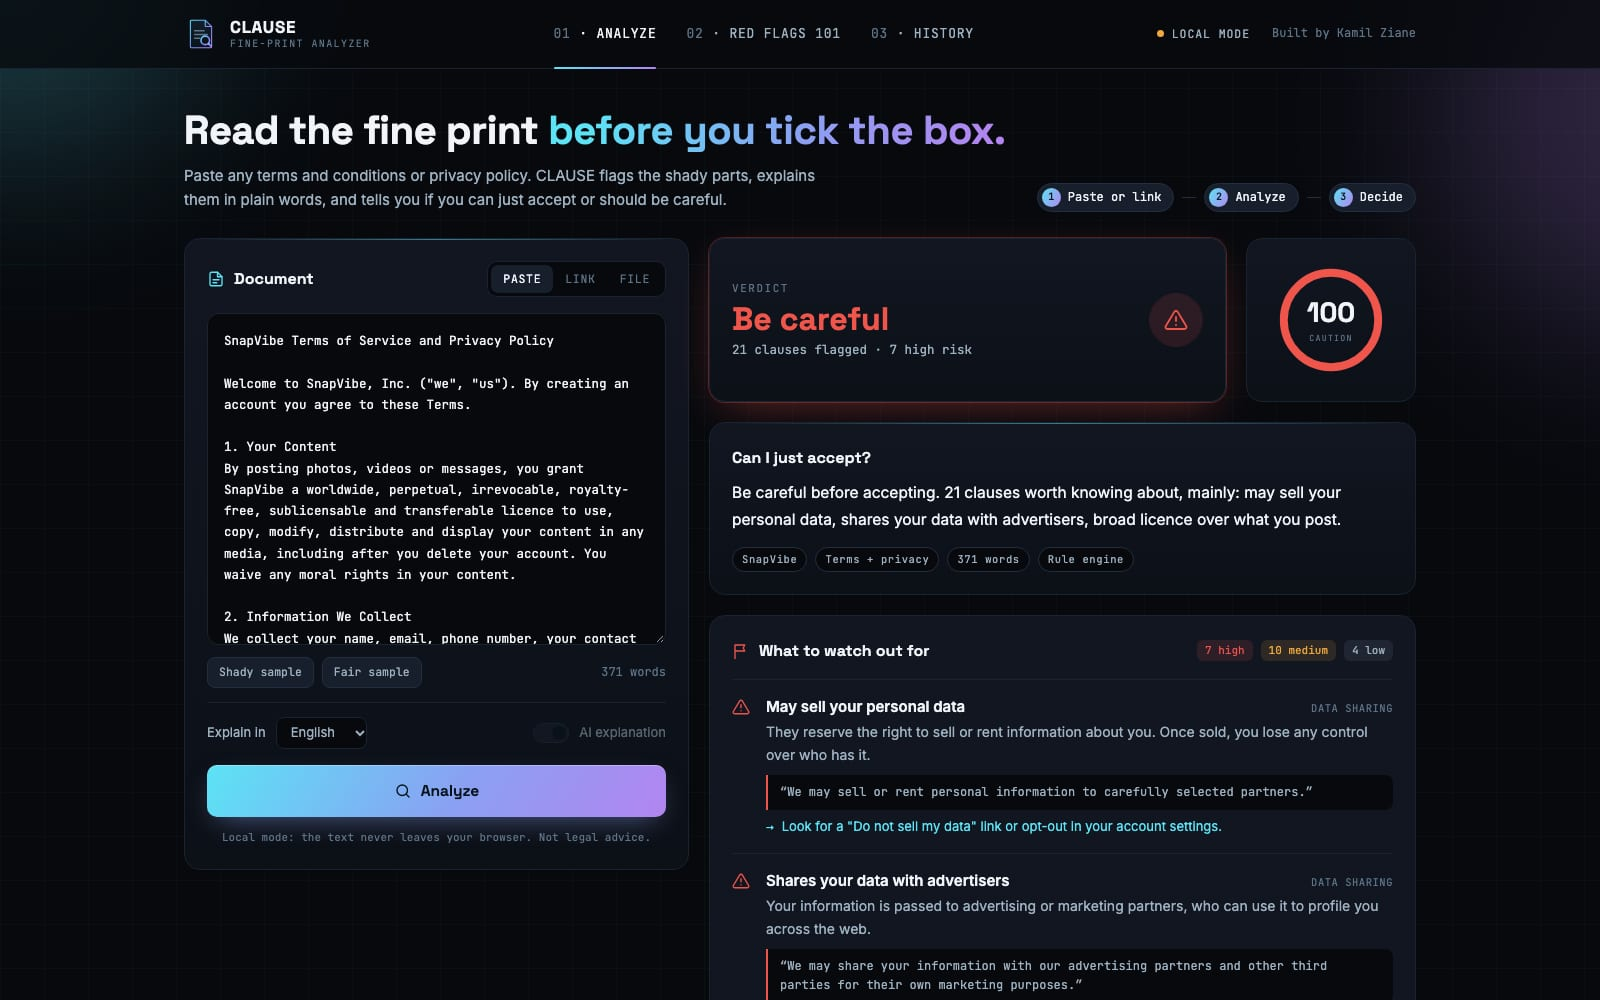
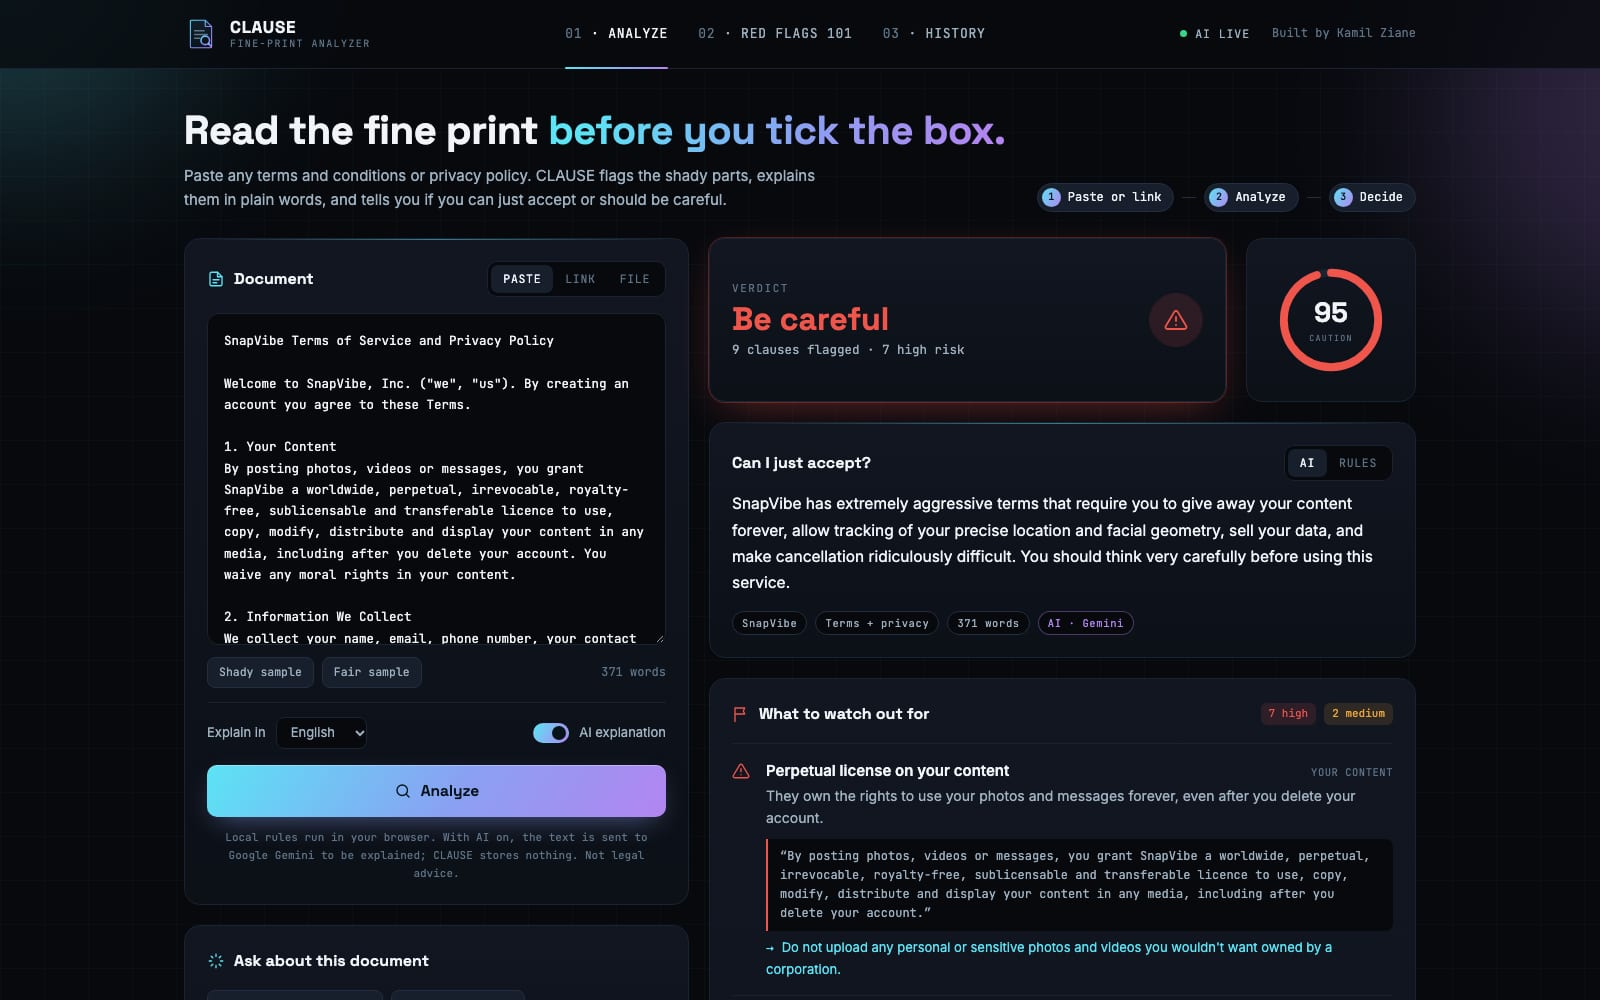
Screenshot with the live Gemini analysis

diff --git a/README.md b/README.md
@@ -6,7 +6,7 @@ whether you can just tick "I accept" or should be careful.
 
 **Live demo:** https://clauseziane.netlify.app/ (try it with the shady sample: https://clauseziane.netlify.app/#demo)
 
-![CLAUSE by Kamil Ziane flagging 21 risky clauses in a sample terms of service](docs/clause-terms-privacy-analyzer-kamil-ziane.jpg)
+![CLAUSE by Kamil Ziane giving a sample terms of service a Be careful verdict, 95 out of 100, with an AI explanation](docs/clause-terms-privacy-analyzer-kamil-ziane.jpg)
 
 ## Why I built it
 
